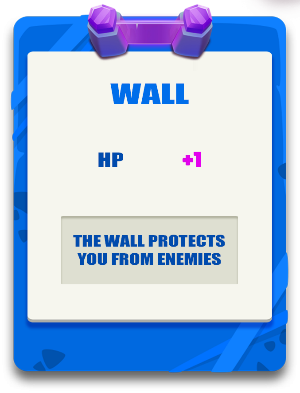
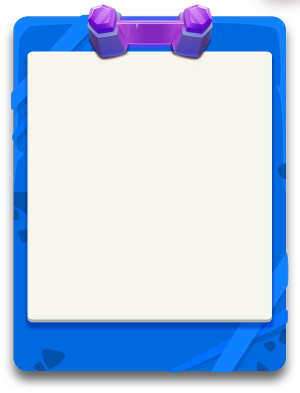
more ui

diff --git a/src/css/main.less b/src/css/main.less
@@ -20,8 +20,6 @@ content {
 	}
 
 	&[data-dialog] {
-		color: #004bad;
-
 		h2 {
 			color: #006eeb;
 			font-size: 28px;
@@ -43,16 +41,24 @@ content {
 	}
 
 
-	&[data-dialog="pause"] {
-		> div[data-area="pause"] { display: block; }
-	}
-
 	&[data-dialog="academy"] {
 		> div[data-area="academy"] { display: block; }
 	}
 
 	&[data-dialog="laboratory"] {
 		> div[data-area="laboratory"] { display: block; }
+	}
+
+	&[data-dialog="wall"] {
+		> div[data-area="wall"] { display: block; }
+	}
+
+	&[data-dialog="chest"] {
+		> div[data-area="chest"] { display: block; }
+	}
+
+	&[data-dialog="pause"] {
+		> div[data-area="pause"] { display: block; }
 	}
 
 
@@ -82,6 +88,7 @@ content {
 				left: 0;
 				right: 0;
 				height: 160px;
+				cursor: pointer;
 			}
 
 			.wizard {
@@ -102,6 +109,30 @@ content {
 				left: 39px;
 				width: 111px;
 				height: 125px;
+				cursor: pointer;
+
+				.timer {
+					background: #fff;
+					position: absolute;
+					top: 120px;
+					left: 5px;
+					border-radius: 30px;
+					padding: 5px 11px 5px 34px;
+					font-size: 23px;
+					color: #265dbc;
+					box-shadow: 0px 4px 0px 0px darken(#fff, 15%),
+								0 5px 9px #000;
+
+					&:before {
+						content: "";
+						background: url(~/gfx/clock.png) 50% 50%/contain no-repeat;
+						position: absolute;
+						top: 5px;
+						left: 6px;
+						width: 25px;
+						height: 25px;
+					}
+				}
 			}
 
 			.book {
@@ -111,6 +142,7 @@ content {
 				left: 330px;
 				width: 121px;
 				height: 112px;
+				cursor: pointer;
 			}
 
 			.ball {
@@ -120,6 +152,7 @@ content {
 				left: 187px;
 				width: 109px;
 				height: 137px;
+				cursor: pointer;
 			}
 
 			.cloud-1 {
@@ -243,9 +276,74 @@ content {
 			}
 		}
 
-		&[data-area="pause"] {
-			background: #0005;
+		&[data-area="wall"] {
 			backdrop-filter: blur(3px);
+			background: #0005;
+			color: #004bad;
+
+			.bg-wall {
+				background: url(~/gfx/wallbg-sheet0.png) 50% 50% no-repeat;
+				position: absolute;
+				top: 167px;
+				left: 89px;
+				width: 300px;
+				height: 403px;
+
+				.dlg-exit-button {
+					top: 28px;
+					right: 17px;
+				}
+
+				h2 {
+					position: absolute;
+					top: 89px;
+					left: 40px;
+					right: 40px;
+				}
+
+				.btn-ok {
+					bottom: -5px;
+					left: 93px;
+				}
+			}
+		}
+
+		&[data-area="chest"] {
+			backdrop-filter: blur(3px);
+			background: #0005;
+			color: #004bad;
+
+			.bg-chest {
+				background: url(~/gfx/chestbg-sheet0.png) 50% 50% no-repeat;
+				position: absolute;
+				top: 167px;
+				left: 89px;
+				width: 300px;
+				height: 403px;
+
+				.dlg-exit-button {
+					top: 60px;
+					right: 13px;
+				}
+
+				h2 {
+					position: absolute;
+					top: 110px;
+					left: 40px;
+					right: 40px;
+				}
+
+				.btn-ok {
+					bottom: -5px;
+					left: 93px;
+				}
+			}
+		}
+
+		&[data-area="pause"] {
+			backdrop-filter: blur(3px);
+			background: #0005;
+			color: #004bad;
 
 			.bg-pause {
 				background: url(~/gfx/pausebg-sheet0.png) 50% 50% no-repeat;
@@ -311,8 +409,9 @@ content {
 		}
 
 		&[data-area="academy"] {
-			background: #0005;
 			backdrop-filter: blur(3px);
+			background: #0005;
+			color: #004bad;
 
 			.bg-academy {
 				background: url(~/gfx/academybg-sheet0.png) 50% 50% no-repeat;
@@ -430,8 +529,9 @@ content {
 		}
 
 		&[data-area="laboratory"] {
-			background: #0005;
 			backdrop-filter: blur(3px);
+			background: #0005;
+			color: #004bad;
 
 			.bg-laboratory {
 				background: url(~/gfx/laboratorybg-sheet0.png) 50% 50% no-repeat;
@@ -634,7 +734,7 @@ content {
 						&:nth-child(18) { top: 200px; left: 133px; &:before { transition-delay: 750ms; } }
 						&:nth-child(19) { top: 200px; left: 165px; &:before { transition-delay: 700ms; } }
 						&:nth-child(20) { top: 200px; left: 197px; &:before { transition-delay: 650ms; } }
-						}
+					}
 				}
 			}
 
@@ -730,7 +830,7 @@ content {
 			padding: 3px 0 0 29px;
 			border-radius: 3px;
 			font-size: 23px;
-			color: #666;
+			color: #265dbc;
 			box-shadow: 0px 5px 0px 0px darken(#fff, 11%);
 
 			&:before {

diff --git a/src/partials/content.htm b/src/partials/content.htm
@@ -1,11 +1,13 @@
-<content data-show="start" data-dialog="academy" data-context="game-content">
+<content data-show="start" data-dialog="chest" data-context="game-content">
 	<!-- start view -->
 	<div data-area="start">
 		<div class="top-level">23</div>
 		<div class="top-coins">1234</div>
 		<div class="top-jems">1234</div>
 		<div class="wall"></div>
-		<div class="chest"></div>
+		<div class="chest">
+			<span class="timer">00:30</span>
+		</div>
 		<div class="wizard"></div>
 		<div class="book"></div>
 		<div class="ball"></div>
@@ -89,6 +91,24 @@
 				<h3>Total Damage</h3>
 				<span>69</span>
 			</div>
+		</div>
+	</div>
+
+	<!-- wall view -->
+	<div data-area="wall">
+		<div class="bg-wall">
+			<div class="dlg-exit-button"></div>
+			<h2>Wall</h2>
+			<div class="btn-ok"></div>
+		</div>
+	</div>
+
+	<!-- chest view -->
+	<div data-area="chest">
+		<div class="bg-chest">
+			<div class="dlg-exit-button"></div>
+			<h2>Chest</h2>
+			<div class="btn-ok"></div>
 		</div>
 	</div>
 
